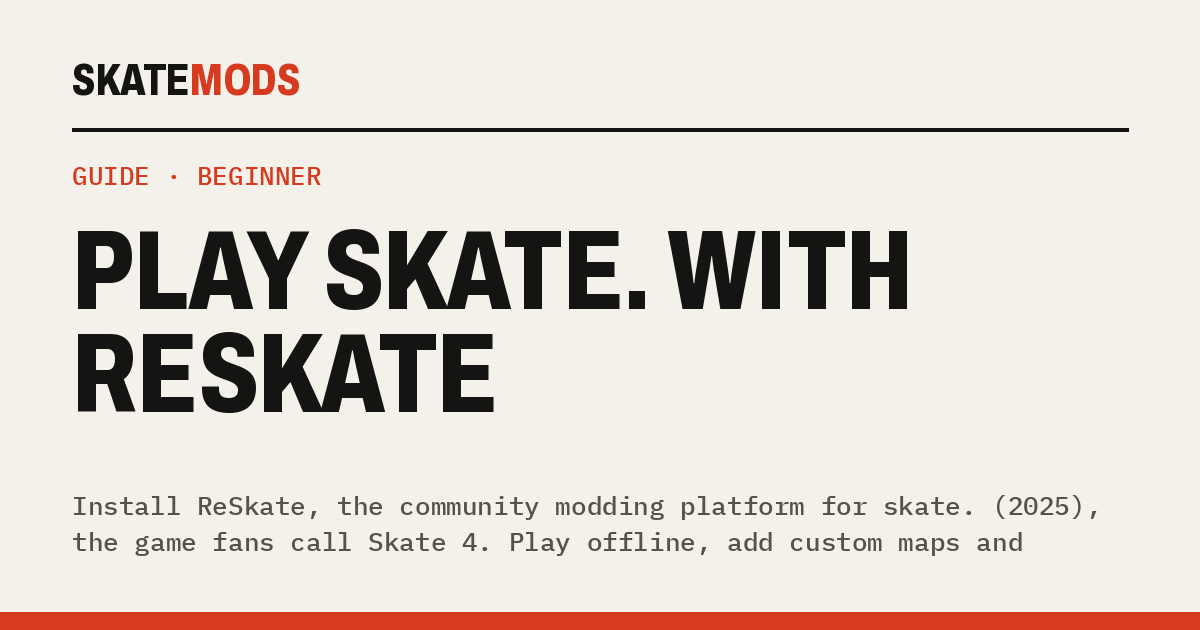
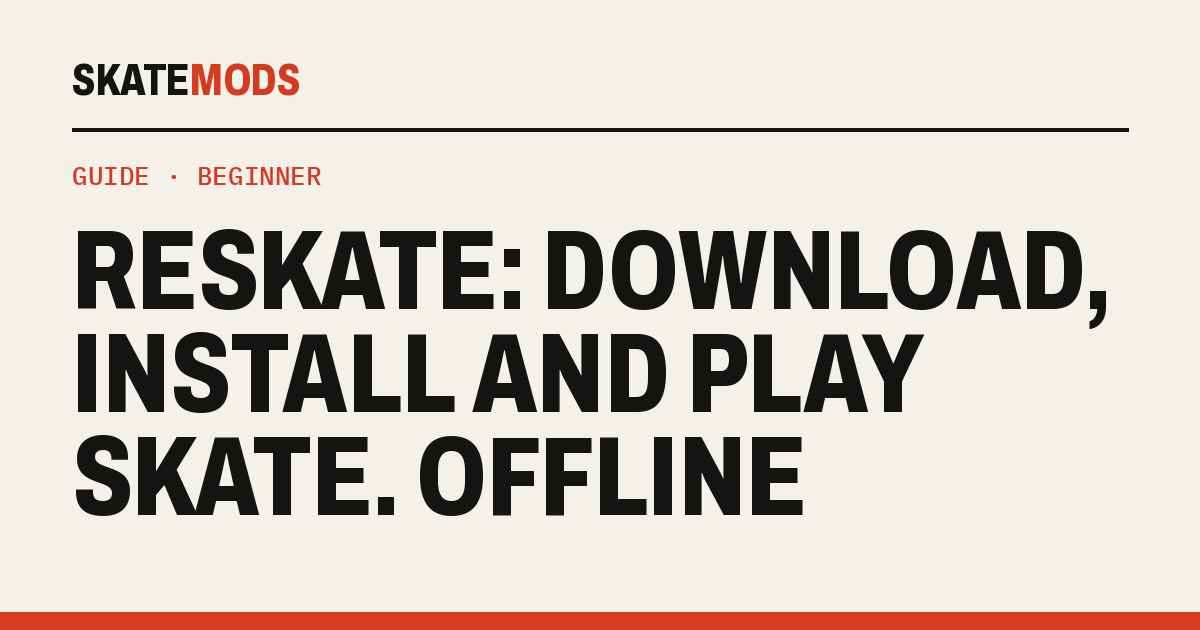
ReSkate SEO: category pages, keyword titles, offline/maps/multiplayer FAQs
- /reskate/maps|boards|cosmetics|music|modpacks/ landing pages from the Thunderstore
  snapshot (maps also catch untagged map mods), with ItemList data, in the sitemap and llms.txt
- 'ReSkate' in the titles of /reskate/ and every mod page; the play guide is now
  'ReSkate: download, install and play skate. offline', with matching anchor text site-wide
- New FAQs: skate. offline, installing custom maps, multiplayer with friends
- zeex64's Full Skate 3 Map left Thunderstore: recommendations point at 333's Skate 3
  Improved, historical links go to the Wayback snapshot

Changed region(s): [[0.0617, 0.3619, 0.925, 0.6635], [0.0617, 0.6937, 0.8633, 0.8746], [0.8325, 0.7841, 0.8942, 0.8143]]

diff --git a/apps/web/src/data/reskate-categories.ts b/apps/web/src/data/reskate-categories.ts
@@ -1,0 +1,62 @@
+import type { Mod } from '../lib/thunderstore';
+
+/** ReSkate Thunderstore categories that get a landing page at /reskate/<slug>/. */
+export interface ModCategory {
+  slug: string;
+  categories: string[]; // Thunderstore category names
+  /** Also catch mods their authors left untagged (many maps are only tagged "Mods"). */
+  untagged?: (m: Mod) => boolean;
+  title: string; // page title and H1
+  short: string; // link label
+  description: string;
+  lede: string;
+}
+
+export const modCategories: ModCategory[] = [
+  {
+    slug: 'maps',
+    categories: ['Maps'],
+    untagged: (m) =>
+      !m.categories.some((c) => ['Cosmetics', 'Audio', 'Skateboards', 'Emotes', 'Camera Mods', 'Libraries'].includes(c)) &&
+      /\b(map|skatepark|park|plaza|streets|level)\b/i.test(`${m.name} ${m.description}`) &&
+      !/teleport|minimap|hud|overview|marker|radio|playlist|deck/i.test(`${m.name} ${m.description}`),
+    title: 'ReSkate custom maps',
+    short: 'Maps',
+    description: 'Every custom map for skate. (Skate 4) on ReSkate: the full Skate 3 city, skate 2’s New San Vanelona, Skater XL ports and original parks, with install steps.',
+    lede: 'Custom maps for skate. through ReSkate, most downloaded first: ports of Port Carverton and New San Vanelona, Skater XL spots and original parks. Install them from the launcher’s MODS page, then pick the map from the level list in the ReSkate menu (Insert).',
+  },
+  {
+    slug: 'boards',
+    categories: ['Skateboards'],
+    title: 'ReSkate board graphics',
+    short: 'Boards',
+    description: 'Custom skateboard decks, griptape and wheels for skate. (Skate 4) on ReSkate, most downloaded first, with install steps.',
+    lede: 'Custom decks, grip and wheels for skate. through ReSkate, most downloaded first. Install them from the launcher’s MODS page and they show up with the game’s own boards.',
+  },
+  {
+    slug: 'cosmetics',
+    categories: ['Cosmetics'],
+    title: 'ReSkate cosmetics and clothing',
+    short: 'Cosmetics',
+    description: 'Custom shoes, clothing and skater cosmetics for skate. (Skate 4) on ReSkate, most downloaded first, with install steps.',
+    lede: 'Shoes, clothing and other skater cosmetics for skate. through ReSkate, most downloaded first. These are community-made. Mods that unlock EA’s paid items are against ReSkate’s rules.',
+  },
+  {
+    slug: 'music',
+    categories: ['Audio'],
+    title: 'ReSkate music and soundtracks',
+    short: 'Music',
+    description: 'Soundtrack and audio mods for skate. (Skate 4) on ReSkate, including the Skate 3 soundtrack as a radio station, most downloaded first.',
+    lede: 'Soundtracks and other audio mods for skate. through ReSkate, most downloaded first. Song mods show up in the game’s music screen next to the licensed stations, with their own playlists.',
+  },
+  {
+    slug: 'modpacks',
+    categories: ['Modpacks'],
+    title: 'ReSkate modpacks',
+    short: 'Modpacks',
+    description: 'Modpacks for skate. (Skate 4) on ReSkate: bundles of maps, boards and tweaks you install in one go, most downloaded first.',
+    lede: 'Bundles of maps, boards and tweaks for skate. through ReSkate, most downloaded first. Installing a pack from the launcher pulls in everything it lists.',
+  },
+];
+
+export const inCategory = (m: Mod, c: ModCategory) => m.categories.some((x) => c.categories.includes(x)) || !!c.untagged?.(m);

diff --git a/apps/web/src/data/mod-notes.ts b/apps/web/src/data/mod-notes.ts
@@ -5,6 +5,8 @@
 export const modNotes: Record<string, string> = {
   'zeex64-Full_Skate_3_Map':
     'Port Carverton, the whole city from <a href="/games/skate-3/">Skate 3</a> (2010), running in EA\'s 2025 skate.: Downtown\'s ledges and rails, University\'s banks and plazas, and Industrial with its quarry. zeex64, who leads ReSkate, put it up on launch day, October 2, 2026, and it has been the most downloaded ReSkate mod ever since. The story of how Skate 3\'s world format became convertible is in the <a href="/history/skate-3/">Skate 3 modding history</a>.',
+  '333-Skate_3_Improved':
+    'Port Carverton, the city from <a href="/games/skate-3/">Skate 3</a> (2010), in EA\'s 2025 skate., with the DLC maps, Skate 3\'s original decals and surface sounds that change with the material underfoot. 333 put it up on October 7, 2026, and within days it was one of the two most downloaded maps on ReSkate, next to brassy\'s skate 2 city. zeex64\'s launch-day Full Skate 3 Map is no longer on Thunderstore. How Skate 3\'s world format became convertible is in the <a href="/history/skate-3/">Skate 3 modding history</a>.',
   'brassy-Skate2Map':
     'New San Vanelona, the city from <a href="/games/skate-2/">skate 2</a> (2009), ported into skate. by brassy. It went up the day after ReSkate launched and became one of its most downloaded maps.',
   'TeamMeebs-Losal_Streets':

diff --git a/apps/web/src/pages/llms.txt.ts b/apps/web/src/pages/llms.txt.ts
@@ -1,5 +1,6 @@
 import { getCollection } from 'astro:content';
 import { getMods } from '../lib/thunderstore';
+import { modCategories } from '../data/reskate-categories';
 
 // llms.txt (https://llmstxt.org): a plain map of the site for AI assistants and answer engines.
 export async function GET() {
@@ -40,7 +41,7 @@ ${blog.sort((a, b) => b.data.date.getTime() - a.data.date.getTime()).map((p) => 
 
 ## Optional
 - [Clean Room Skate Online](${u('/skate-3-online/')}): a fan-made Skate 3 rewrite you can play in your browser, solo or with up to 10 players
-- [All skate. mods](${u('/reskate/')}): every ReSkate mod, refreshed from Thunderstore
+- [All ReSkate mods](${u('/reskate/')}): every skate. mod on the ReSkate Thunderstore, refreshed live; by category: ${modCategories.map((c) => `[${c.short}](${u(`/reskate/${c.slug}/`)})`).join(', ')}
 - [Skate 3 maps](${u('/maps/')}): community Skate 3 maps converted for PS3, the PC recomp and the Rust engine
 - [Tools](${u('/tools/')}): every modding tool by game
 - [The people](${u('/history/people/')}): credits for everyone who built these scenes

diff --git a/apps/web/src/pages/sitemap.xml.ts b/apps/web/src/pages/sitemap.xml.ts
@@ -1,8 +1,9 @@
 import { getCollection } from 'astro:content';
 import { getMods } from '../lib/thunderstore';
+import { modCategories } from '../data/reskate-categories';
 
 // Public pages only: account, upload and admin screens are left out.
-const pages = ['/', '/games/', '/maps/', '/reskate/', '/guides/', '/faq/', '/history/', '/history/people/', '/blog/', '/community/', '/tools/', '/recomp/', '/skate-3-online/', '/convert/', '/about/', '/policy/', '/face/'];
+const pages = ['/', '/games/', '/maps/', '/reskate/', ...modCategories.map((c) => `/reskate/${c.slug}/`), '/guides/', '/faq/', '/history/', '/history/people/', '/blog/', '/community/', '/tools/', '/recomp/', '/skate-3-online/', '/convert/', '/about/', '/policy/', '/face/'];
 
 export async function GET() {
   const [games, guides, faq, communities, blog, mods] = await Promise.all([

diff --git a/apps/web/src/data/skate3-timeline.ts b/apps/web/src/data/skate3-timeline.ts
@@ -433,7 +433,7 @@ export const timeline: Event[] = [
     title: 'Port Carverton in the new skate.',
     body: 'On ReSkate\'s launch day, the whole Skate 3 city goes up on Thunderstore as a map for EA\'s 2025 skate., and becomes the platform\'s most downloaded mod.',
     who: 'zeex64',
-    source: 'https://thunderstore.io/c/reskate/p/zeex64/Full_Skate_3_Map/',
+    source: 'https://web.archive.org/web/20261006184233/https://thunderstore.io/c/reskate/p/zeex64/Full_Skate_3_Map/',
   },
 ];
 

diff --git a/apps/web/src/content/communities/reskate.md b/apps/web/src/content/communities/reskate.md
@@ -5,7 +5,7 @@ games: [skate-2025]
 years: 2026–present
 scene: active
 order: 7
-updated: 2026-10-05
+updated: 2026-10-09
 people:
   - name: zeex64
     role: Leads ReSkate. Published the source, cut the 1.0 release and the eleven releases in its first three days, reviews and merges community pull requests, runs the news feed, and ported the full Skate 3 map to skate.
@@ -197,7 +197,7 @@ Mods are distributed through a [Thunderstore community](https://thunderstore.io/
 
 | Mod | By | What it is |
 |---|---|---|
-| [Full Skate 3 Map](https://thunderstore.io/c/reskate/p/zeex64/Full_Skate_3_Map/) | zeex64 | Port Carverton, the whole Skate 3 city, in skate. |
+| [Full Skate 3 Map](https://web.archive.org/web/20261006184233/https://thunderstore.io/c/reskate/p/zeex64/Full_Skate_3_Map/) | zeex64 | Port Carverton, the whole Skate 3 city, in skate. |
 | [Skate 2 Map](https://thunderstore.io/c/reskate/p/brassy/Skate2Map/) | brassy | New San Vanelona from skate 2 |
 | [Losal Streets](https://thunderstore.io/c/reskate/p/TeamMeebs/Losal_Streets/) | TeamMeebs | A street map from Skater XL |
 | [Desert Springs](https://thunderstore.io/c/reskate/p/memori/Desert_Springs/) | memori | Yaky's map, ported from BMX Streets |
@@ -214,7 +214,7 @@ By **October 5** there were **216 mods** and more than **326,000 downloads**. Ma
 
 | Mod | By | Downloads (Oct 5) |
 |---|---|---|
-| [Full Skate 3 Map](https://thunderstore.io/c/reskate/p/zeex64/Full_Skate_3_Map/) | zeex64 | 18,700 |
+| [Full Skate 3 Map](https://web.archive.org/web/20261006184233/https://thunderstore.io/c/reskate/p/zeex64/Full_Skate_3_Map/) | zeex64 | 18,700 |
 | [South Florida](https://thunderstore.io/c/reskate/p/AltDoug/South_Florida/) | B-Row, ported by AltDoug | 11,900 |
 | [Skate 2 Map](https://thunderstore.io/c/reskate/p/brassy/Skate2Map/) | brassy | 11,500 |
 | [Skate 3 Soundtrack](https://thunderstore.io/c/reskate/p/Prayboy/Skate3Soundtrack/) | Prayboy | 11,300 |
@@ -225,7 +225,7 @@ By **October 5** there were **216 mods** and more than **326,000 downloads**. Ma
 | [The SLS Hangar](https://thunderstore.io/c/reskate/p/forestmouse/The_SLS_Hangar/) | forestmouse | 5,100 |
 | [Bullworth](https://thunderstore.io/c/reskate/p/Lukas9875/Bullworth/) | Lukas9875 | 5,000 |
 
-Maps now come from everywhere: THUG2's Los Angeles, Bully's Bullworth, Counter-Strike's Dust2, Nuke and Overpass, the whole of GTA III and Vice City, True Skate's Underpass and real parks like DC Plaza Saint Petersburg. Several authors credit **ReSkate Studio** for their conversions and cosmetics. The [skate. mods](/reskate/) page lists every one, live.
+Maps now come from everywhere: THUG2's Los Angeles, Bully's Bullworth, Counter-Strike's Dust2, Nuke and Overpass, the whole of GTA III and Vice City, True Skate's Underpass and real parks like DC Plaza Saint Petersburg. Several authors credit **ReSkate Studio** for their conversions and cosmetics. By **October 9** the Thunderstore listed more than 1,250 current mods with about 2.6 million downloads. zeex64's Full Skate 3 Map is no longer there. 333's [Skate 3 Improved](/reskate/333/Skate_3_Improved/), posted October 7 with the DLC maps and Skate 3's original decals, is now the most downloaded Skate 3 city, close behind brassy's skate 2 map. The [ReSkate mods](/reskate/) page lists every mod, live, and [ReSkate custom maps](/reskate/maps/) has the maps alone.
 
 ## Trainers and tools
 

diff --git a/apps/web/src/content/faq/reskate-custom-maps.md b/apps/web/src/content/faq/reskate-custom-maps.md
@@ -1,0 +1,34 @@
+---
+question: How do you install custom maps in ReSkate?
+answer: Open ReSkateLauncher.exe, go to MODS, search for the map and click install, or drag its .zip onto the launcher. Press PLAY, then open the ReSkate menu with Insert and pick the map from the level list. To join a server on a custom map, you need the same map mod and ReSkate version as the server.
+category: other-games
+games: [skate-2025]
+related: [guides/play-skate-with-reskate, guides/host-a-reskate-server, faq/reskate-not-working]
+order: 35.2
+updated: 2026-10-09
+---
+
+## Install a map
+
+1. Set up ReSkate first with the [install guide](/guides/play-skate-with-reskate/).
+2. In the launcher, open **MODS**. It browses the [ReSkate Thunderstore](https://thunderstore.io/c/reskate/). Search for the map and click install. You can also drag a mod `.zip` or folder onto the launcher window.
+3. Press **PLAY**. The launcher merges your mods before the game starts and names any it couldn't load.
+4. In game, press **Insert** to open the ReSkate menu. Custom maps are in its level list.
+
+To install by hand, put the mod folder in `Mods\` beside `Skate.exe`. `Mods\mods.json` sets the load order.
+
+## Which maps to get
+
+[ReSkate custom maps](/reskate/maps/) lists every map on Thunderstore, most downloaded first. Popular ones include:
+
+- [Skate 3 Improved](/reskate/333/Skate_3_Improved/): Port Carverton in skate.'s engine, with the DLC maps.
+- [Skate 2 Map](/reskate/brassy/Skate2Map/): New San Vanelona.
+- [Losal Streets](/reskate/TeamMeebs/Losal_Streets/) and [South Florida](/reskate/AltDoug/South_Florida/), ported from Skater XL.
+
+## When a map won't load
+
+- **Crash on a big map:** update to ReSkate 1.1.0 or later, which raised the physics body limit for large maps.
+- **A map broke after 1.1.0:** uninstall it and install it again from **MY MODS** ([#46](https://github.com/Dingo-Shenanigans/ReSkate/issues/46)).
+- **Endless loading on Linux or Steam Deck:** custom maps have hung under Proton since 1.0.8 ([#31](https://github.com/Dingo-Shenanigans/ReSkate/issues/31)).
+
+More fixes are in [ReSkate isn't working](/faq/reskate-not-working/). To make a map rather than install one, ReSkate's park editor saves parks as mods you can share.

diff --git a/apps/web/src/content/faq/reskate-multiplayer.md b/apps/web/src/content/faq/reskate-multiplayer.md
@@ -1,0 +1,33 @@
+---
+question: How do you play ReSkate online with friends?
+answer: Sign in to Steam before pressing PLAY, then open the Multiplayer menu in the ReSkate menu (Insert). Host a Steam lobby for up to 32 players and share its code, or browse community dedicated servers under Multiplayer → Servers. Everyone needs the same ReSkate version and the same map mods.
+category: other-games
+games: [skate-2025]
+related: [guides/play-skate-with-reskate, guides/host-a-reskate-server, faq/reskate-not-working]
+order: 35.3
+updated: 2026-10-09
+---
+
+## Lobbies and servers
+
+ReSkate has its own multiplayer, separate from EA's servers ([install guide](/guides/play-skate-with-reskate/#skate-with-friends)):
+
+- **Steam lobby.** From the Multiplayer menu, host a lobby for up to 32 players. Make it public, or share its code, with an optional password. Lobbies have parties: invite, join, leave, kick and promote, with `/p` for party chat.
+- **Dedicated servers.** **Multiplayer → Servers** lists community servers. To run one yourself, on Windows or natively on Linux, see [Host a ReSkate server](/guides/host-a-reskate-server/).
+
+In a session you get proximity voice, text chat (**T**), throwdowns (Jam, Spot Battle and S.K.A.T.E.) and co-op challenges.
+
+## What has to match
+
+- **Steam must be running and signed in** when you press PLAY. Otherwise ReSkate starts offline as "Unknown Player".
+- **Same ReSkate version** as the lobby or server. The launcher updates itself on start.
+- **Same map mods** as the server when it's running a [custom map](/reskate/maps/).
+- **Physics settings.** Under enforced physics, a host's [trainer](/guides/play-skate-with-reskate/#practice-with-the-trainer) setup reaches guests and they can't change their own.
+
+## Bans
+
+Since 1.1.1, lobbies and most dedicated servers turn away players on ReSkate's global ban list. That list is the ReSkate team's. ReSkate's own FAQ says EA can't ban you for using it.
+
+## Can't host or join?
+
+Update to 1.0.9 or later, which shows why a session refused. On Linux, hosting a lobby may still say "Multiplayer is off" ([#19](https://github.com/Dingo-Shenanigans/ReSkate/issues/19)). The rest are in [ReSkate isn't working](/faq/reskate-not-working/).

diff --git a/apps/web/src/content/blog/reskate-launch.md b/apps/web/src/content/blog/reskate-launch.md
@@ -31,7 +31,7 @@ In game, multiplayer means 32-player Steam lobbies, an in-game server browser, p
 
 Thirteen mods went up on the [ReSkate Thunderstore](https://thunderstore.io/c/reskate/) on the first day, and most of them are cities and parks from other games:
 
-- **[The full Skate 3 map](https://thunderstore.io/c/reskate/p/zeex64/Full_Skate_3_Map/)**, ported by zeex64, puts Port Carverton in the engine of the game that replaced it. It was the most downloaded mod of day one.
+- **[The full Skate 3 map](https://web.archive.org/web/20261006184233/https://thunderstore.io/c/reskate/p/zeex64/Full_Skate_3_Map/)**, ported by zeex64, puts Port Carverton in the engine of the game that replaced it. It was the most downloaded mod of day one.
 - **[New San Vanelona](https://thunderstore.io/c/reskate/p/brassy/Skate2Map/)** from skate 2, ported by brassy.
 - **[Losal Streets](https://thunderstore.io/c/reskate/p/TeamMeebs/Losal_Streets/)** from [Skater XL](/history/skater-xl/), by TeamMeebs.
 - Three maps by **Yaky**, a map maker the Skater XL scene already knows: [Shred Cavern](https://thunderstore.io/c/reskate/p/zeex64/Shred_Cavern_By_Yaky/), [The Lost Loop](https://thunderstore.io/c/reskate/p/zeex64/The_Lost_Loop_By_Yaky/), and [Desert Springs](https://thunderstore.io/c/reskate/p/memori/Desert_Springs/), ported from BMX Streets by memori.
@@ -54,7 +54,7 @@ What's different this time is the target: a live game that EA is still developin
 
 ## Get started
 
-- **Play:** [Play skate. with ReSkate](/guides/play-skate-with-reskate/) covers install, controls, mods and fixes.
+- **Play:** the [ReSkate install guide](/guides/play-skate-with-reskate/) covers install, controls, mods and fixes.
 - **Host:** [Host a ReSkate server](/guides/host-a-reskate-server/) walks through the config, custom maps and fair-play checks.
 - **History:** the [ReSkate scene page](/history/reskate/) has the timeline and the people behind it.
 - **Mods:** [browse every skate. mod](/reskate/), updated live from Thunderstore.

diff --git a/apps/web/src/content/faq/skate-offline.md b/apps/web/src/content/faq/skate-offline.md
@@ -1,0 +1,26 @@
+---
+question: Can you play skate. (Skate 4) offline?
+answer: Not the live game from EA. ReSkate, a fan-made launcher, runs one pinned Steam build of skate. offline, with your skater, outfits, unlocks and progress saved on your PC. Without Steam signed in it starts as "Unknown Player" in offline mode, with no multiplayer.
+category: other-games
+games: [skate-2025]
+related: [guides/play-skate-with-reskate, faq/is-reskate-safe, faq/is-skate-skate-4]
+order: 35.1
+updated: 2026-10-09
+---
+
+## The live game
+
+EA's skate. is a free-to-play live-service game, and it needs EA's servers and can't be modded. [ReSkate](/history/reskate/), released October 2, 2026, is the way to play it offline. PC Gamer called it skate. being ["de-live serviced"](https://www.pcgamer.com/games/sports/reskate-modding-platform-released/), and reported 350,000 downloads.
+
+## How ReSkate does it
+
+- It runs **one pinned Steam build** of skate. (build `25414733` as of 1.1.1), with a community runtime instead of EA's online services. It doesn't touch EA's live game or servers.
+- Your settings and saves live in `%LOCALAPPDATA%\ReSkate\`, apart from the normal game's.
+- You still need your own copy of [skate. on Steam](https://store.steampowered.com/app/3354750/). It's free, so adding it to your library is enough.
+- **Steam signed in** gives you ReSkate's own multiplayer: Steam lobbies and community dedicated servers. **Steam closed** starts offline mode as "Unknown Player".
+
+Offline you also get the things the live game doesn't have: [custom maps](/reskate/maps/), a park editor and a built-in trainer.
+
+## Set it up
+
+Follow the [ReSkate install guide](/guides/play-skate-with-reskate/). It takes the launcher zip from [GitHub Releases](https://github.com/Dingo-Shenanigans/ReSkate/releases/latest) and about 14 GB if the launcher has to download the game build for you. Windows Defender may flag the download; [Is ReSkate safe?](/faq/is-reskate-safe/) explains why.

diff --git a/apps/web/src/content/faq/skate-2025.md b/apps/web/src/content/faq/skate-2025.md
@@ -27,7 +27,7 @@ On top of the game it adds:
 - **Multiplayer.** 32-player Steam lobbies, dedicated servers in an in-game browser, proximity voice, throwdowns and co-op challenges.
 - **Tools.** A park editor, a built-in trainer for physics tuning and practice, time-of-day and world controls, fast travel, noclip and a console.
 
-It's open source (GPL-3.0) and runs on Windows. It also runs on Linux through Proton, with rough edges. The dedicated server has a native Linux build. You need your own copy of skate. on Steam. Its FAQ says EA can't ban you for using it, but the ReSkate team keeps its own ban list for its multiplayer. The project says it's "NOT a replacement for the live game, a way to get paid cosmetics, or a place for leaks" ([news feed](https://github.com/Dingo-Shenanigans/ReSkateCache)). Because it still runs EA's client, EA's terms still apply. To set it up, follow [Play skate. with ReSkate](/guides/play-skate-with-reskate/).
+It's open source (GPL-3.0) and runs on Windows. It also runs on Linux through Proton, with rough edges. The dedicated server has a native Linux build. You need your own copy of skate. on Steam. Its FAQ says EA can't ban you for using it, but the ReSkate team keeps its own ban list for its multiplayer. The project says it's "NOT a replacement for the live game, a way to get paid cosmetics, or a place for leaks" ([news feed](https://github.com/Dingo-Shenanigans/ReSkateCache)). Because it still runs EA's client, EA's terms still apply. To set it up, follow the [ReSkate install guide](/guides/play-skate-with-reskate/).
 
 ## Where that leaves fans
 

diff --git a/apps/web/src/content/guides/play-skate-with-reskate.md b/apps/web/src/content/guides/play-skate-with-reskate.md
@@ -1,6 +1,6 @@
 ---
-title: Play skate. with ReSkate
-description: Install ReSkate, the community modding platform for skate. (2025), the game fans call Skate 4. Play offline, add custom maps and cosmetics from Thunderstore, build parks and skate with friends in lobbies and on dedicated servers.
+title: "ReSkate: download, install and play skate. offline"
+description: How to download and install ReSkate, the community modding platform for skate. (2025), the game fans call Skate 4. Play offline, add custom maps and cosmetics from Thunderstore, build parks and skate with friends in lobbies and on dedicated servers.
 game: skate-2025
 level: beginner
 order: 6
@@ -53,7 +53,7 @@ You can also install by hand. Every mod is a folder in `Mods\` beside `Skate.exe
 
 Good first downloads:
 
-- [Full Skate 3 Map](https://thunderstore.io/c/reskate/p/zeex64/Full_Skate_3_Map/): Port Carverton in skate.'s engine.
+- [Skate 3 Improved](/reskate/333/Skate_3_Improved/): Port Carverton in skate.'s engine, with the DLC maps, original decals and surface sounds.
 - [Skate 2 Map](https://thunderstore.io/c/reskate/p/brassy/Skate2Map/): New San Vanelona.
 - [Losal Streets](https://thunderstore.io/c/reskate/p/TeamMeebs/Losal_Streets/) from Skater XL, and Yaky's [Desert Springs](https://thunderstore.io/c/reskate/p/memori/Desert_Springs/).
 - [South Florida](https://thunderstore.io/c/reskate/p/AltDoug/South_Florida/), B-Row's Skater XL map, and forestmouse's [SLS Hangar](https://thunderstore.io/c/reskate/p/forestmouse/The_SLS_Hangar/).
